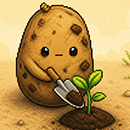
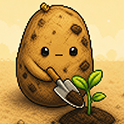
no message

diff --git a/_posts/Premiere/2026-07-01-premiere-basic.md b/_posts/Premiere/2026-07-01-premiere-basic.md
@@ -1,0 +1,45 @@
+---
+title: "프리미어 기초"
+categories: Premiere
+# tag: []
+excerpt: "프리미어의 기초적인 형태"
+---
+
+
+
+
+
+# 📌 윈도우 준비
+{: .notice}
+
+<img src="/img/Premiere/premiere-basic/editing.png"/>
+
+
+
+
+# 📌 리소스 임포트
+{: .notice}
+
+<img src="/img/Premiere/premiere-basic/import.png"/>
+
+
+
+
+# 📌 언링크
+{: .notice}
+
+<img src="/img/Premiere/premiere-basic/import.png"/>
+
+
+
+
+# 📌 Feather
+{: .notice}
+
+<span class="ul-1"><span class="color-keyword">test</span> : test</span>
+
+<span class="ul-1"><span class="color-keyword">test</span> : test</span>
+
+<span class="ul-2"><span class="color-variable">test</span> : test</span>
+
+<span class="ul-1"><span class="color-keyword">test</span> : test</span>

diff --git a/_pages/categories/category-Premiere.md b/_pages/categories/category-Premiere.md
@@ -1,0 +1,13 @@
+---
+title: "Premiere"
+layout: archive
+permalink: categories/Premiere
+author_profile: true
+sidebar_main: true
+sidebar:
+    nav: "docs"
+classes: wide
+---
+
+{% assign posts = site.categories.Premiere %}
+{% for post in posts %} {% include archive-single2.html type=page.entries_layout %} {% endfor %}

diff --git a/_posts/Photoshop/2026-07-01-photoshop-basic.md b/_posts/Photoshop/2026-07-01-photoshop-basic.md
@@ -9,7 +9,7 @@ categories: Photoshop
 
 
 
-# 📌 test title
+# 📌 Background
 {: .notice}
 
 <span class="ul-1"><span class="color-keyword">test</span> : test</span>
@@ -20,7 +20,7 @@ categories: Photoshop
 
 <span class="ul-1"><span class="color-keyword">test</span> : test</span>
 
-# 📌 test title
+# 📌 Feather
 {: .notice}
 
 <span class="ul-1"><span class="color-keyword">test</span> : test</span>